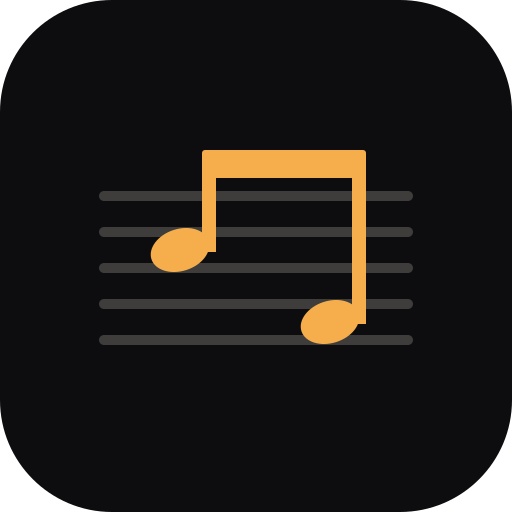
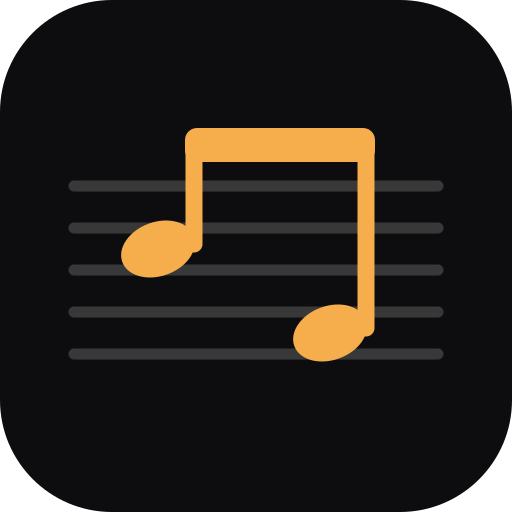
Protect saved sheets, hold tempo on a live BPM change, beam 16ths per beat
Storage could lose work: every mount wrote the in-memory library back, so a
single failed read seeded a demo and immediately overwrote the real sheets.
Loading now reports whether anything was restored and only the demo is
written on mount; save() refuses to persist an empty library and keeps the
previous copy in a backup key that load() falls back to.

Changing BPM mid-playback kept the old t0 while the period changed under it,
so the playhead jumped and the scheduler re-fired from its current index —
the tempo ran away until you stopped. rebuild() can now re-anchor in place,
preserving where the playhead is.

Sixteenths were beamed by the half bar along with eighths, so a run of them
carried a double beam across two beats and the beat was impossible to find.
Sixteenths group a beat at a time again; eighths keep the half-bar grouping.

Also: tap the BPM readout to type a tempo, CLICK is named METRONOME again,
playback speed is adjustable from the play screen, and the audio session is
only claimed while actually playing — holding it permanently is what put the
app in the Dynamic Island between takes — and is re-claimed on return from
another app.

Icon redrawn larger and smoother: bigger noteheads, rounded beam.

Changed region(s): [[0.125, 0.25, 0.875, 0.7188]]

diff --git a/src/App.tsx b/src/App.tsx
@@ -84,6 +84,8 @@ export class App extends Component<Record<string, never>, AppState> {
   private history = new History();
   private g: Gesture = {};
   private lastTap: { id: string; t: number } | null = null;
+  /** whether the library came from storage rather than the bundled demo */
+  private restored = false;
 
   /* scheduler */
   private TL: Step[] = [];
@@ -133,7 +135,12 @@ export class App extends Component<Record<string, never>, AppState> {
     if (compact !== this.state.compact) this.setState({ compact }, () => this.measure());
   };
   private onVis = (): void => {
-    if (document.visibilityState === 'visible') this.kit.resumeIfNeeded();
+    // Coming back from another app the context is often left suspended; without
+    // this the transport looks alive but nothing sounds.
+    if (document.visibilityState === 'visible') {
+      this.kit.resumeIfNeeded();
+      if (this.state.playing) this.kit.session(true);
+    }
   };
   /** iOS needs a real gesture before any sound will come out. */
   private onFirstGesture = (): void => {
@@ -144,7 +151,8 @@ export class App extends Component<Record<string, never>, AppState> {
 
   constructor(props: Record<string, never>) {
     super(props);
-    const { lib, curId } = load();
+    const { lib, curId, restored } = load();
+    this.restored = restored;
     this.state = {
       view: 'edit',
       lib,
@@ -180,7 +188,9 @@ export class App extends Component<Record<string, never>, AppState> {
   }
 
   componentDidMount(): void {
-    save(this.state.lib, this.state.curId);
+    // Only persist the bundled demo. Writing on every mount meant a transient
+    // read failure would immediately overwrite the user's sheets with a seed.
+    if (!this.restored) save(this.state.lib, this.state.curId);
     this.measure();
     if (window.ResizeObserver) {
       this.ro = new ResizeObserver(() => this.measure());
@@ -365,7 +375,7 @@ export class App extends Component<Record<string, never>, AppState> {
       },
       () => {
         save(lib, this.state.curId);
-        if (this.state.playing) this.rebuild();
+        if (this.state.playing) this.rebuild(true);
       },
     );
   }
@@ -404,7 +414,19 @@ export class App extends Component<Record<string, never>, AppState> {
 
   /* ---------- transport ---------- */
 
-  rebuild(): void {
+  /**
+   * @param keepPosition rebuild in place during playback, preserving where the
+   * playhead is. Without it a tempo change kept the old `t0` while the period
+   * changed underneath, so the playhead jumped and the scheduler re-fired
+   * everything from the current index — the tempo appeared to run away.
+   */
+  rebuild(keepPosition = false): void {
+    const now = this.kit.time;
+    let frac = 0;
+    if (keepPosition && this.period > 0) {
+      const t = now - this.t0;
+      if (t > 0) frac = (t % this.period) / this.period;
+    }
     const p = this.proj();
     const parts = this.state.scope === 'song' ? p.parts : [this.curPart()];
     const T = buildTimeline(p, parts, this.state.speed, this.state.loop);
@@ -416,6 +438,13 @@ export class App extends Component<Record<string, never>, AppState> {
     // you are playing along to the loop.
     this.gap = 4 * T.spq;
     this.period = this.total;
+    if (keepPosition && this.TL.length) {
+      const at = frac * this.period;
+      this.pass = 0;
+      this.t0 = now - at;
+      const i = this.TL.findIndex((st) => st.t >= at);
+      this.idx = i < 0 ? 0 : i;
+    }
   }
 
   togglePlay = (): void => {
@@ -432,6 +461,7 @@ export class App extends Component<Record<string, never>, AppState> {
     // reports currentTime 0 — every event would be scheduled in the past and
     // dropped. Resume before reading the clock.
     await this.kit.unlock();
+    this.kit.session(true);
     const ac = this.kit.ac();
     this.rebuild();
     if (!this.TL.length) return;
@@ -450,6 +480,7 @@ export class App extends Component<Record<string, never>, AppState> {
     clearInterval(this.iv);
     cancelAnimationFrame(this.raf);
     this.kit.panic();
+    this.kit.session(false);
     this.wakeOff();
     if (this.state.playing || this.state.cur || this.state.count)
       this.setState({ playing: false, cur: null, count: 0 });

diff --git a/src/ui/Transport.tsx b/src/ui/Transport.tsx
@@ -1,3 +1,4 @@
+import { useEffect, useRef, useState } from 'react';
 import type { App } from '../App';
 import { ACCENT, softAccent } from '../config';
 import { SPEEDS } from '../notation/constants';
@@ -5,6 +6,18 @@ import { SPEEDS } from '../notation/constants';
 export function Transport({ app }: { app: App }) {
   const st = app.state;
   const p = app.proj();
+  // tap the readout to type a tempo instead of stepping to it
+  const [typing, setTyping] = useState<string | null>(null);
+  const field = useRef<HTMLInputElement>(null);
+  useEffect(() => {
+    if (typing !== null) field.current?.select();
+  }, [typing]);
+  const commit = (raw: string | null): void => {
+    const v = Math.round(Number(raw));
+    if (raw !== null && raw !== '' && Number.isFinite(v))
+      app.edit((pp) => void (pp.bpm = Math.max(30, Math.min(300, v))));
+    setTyping(null);
+  };
   const soft = softAccent(ACCENT);
   const H = st.compact ? 42 : 50;
   const fs = st.compact ? 10 : 10.5;
@@ -12,7 +25,7 @@ export function Transport({ app }: { app: App }) {
   const loopActive = st.loopArm || loopOn;
   const speedLabel = (st.speed === 1 ? '1' : String(st.speed).replace('0.', '.')) + '×';
 
-  const chip = (bg: string, color: string, pad = 11): React.CSSProperties => ({
+  const chip = (bg: string, color: string, pad = 9): React.CSSProperties => ({
     height: H,
     padding: `0 ${pad}px`,
     borderRadius: 11,
@@ -96,8 +109,38 @@ export function Transport({ app }: { app: App }) {
         >
           −
         </button>
-        <div style={{ textAlign: 'center', minWidth: 38 }}>
-          <div style={{ font: '500 20px/1 IBM Plex Mono,monospace' }}>{p.bpm}</div>
+        <div style={{ textAlign: 'center', minWidth: 44 }}>
+          {typing === null ? (
+            <div
+              onClick={() => setTyping(String(p.bpm))}
+              style={{ font: '500 20px/1 IBM Plex Mono,monospace', cursor: 'pointer' }}
+            >
+              {p.bpm}
+            </div>
+          ) : (
+            <input
+              ref={field}
+              value={typing}
+              inputMode="numeric"
+              autoFocus
+              onChange={(e) => setTyping(e.target.value.replace(/[^0-9]/g, '').slice(0, 3))}
+              onBlur={() => commit(typing)}
+              onKeyDown={(e) => {
+                if (e.key === 'Enter') commit(typing);
+                if (e.key === 'Escape') setTyping(null);
+              }}
+              style={{
+                width: 44,
+                background: 'none',
+                border: 0,
+                outline: 'none',
+                textAlign: 'center',
+                font: '500 20px/1 IBM Plex Mono,monospace',
+                color: ACCENT,
+                padding: 0,
+              }}
+            />
+          )}
           <div
             style={{
               font: '400 8px/1.5 IBM Plex Mono,monospace',
@@ -142,7 +185,7 @@ export function Transport({ app }: { app: App }) {
         onClick={() => app.setState({ met: !st.met })}
         style={chip(st.met ? soft : '#17171c', st.met ? ACCENT : 'rgba(236,231,221,.5)')}
       >
-        CLICK
+        METRONOME
       </button>
 
       <button

diff --git a/src/model/storage.ts b/src/model/storage.ts
@@ -6,10 +6,14 @@ import { fitDur } from '../notation/layout';
    half-loading an old shape. */
 const LIB_KEY = 'drumtab.lib.v7';
 const CUR_KEY = 'drumtab.cur.v7';
+/** Written alongside every save, so a failed read has something to fall back to. */
+const BAK_KEY = 'drumtab.lib.bak';
 
 export interface Loaded {
   lib: Project[];
   curId: string;
+  /** false when nothing was stored — the library is the bundled demo */
+  restored: boolean;
 }
 
 /**
@@ -35,29 +39,42 @@ function migrate(p: Project): void {
 export function load(): Loaded {
   let lib: Project[] = [];
   let cur: string | null = null;
-  try {
-    lib = JSON.parse(localStorage.getItem(LIB_KEY) || '[]');
-  } catch {
-    /* corrupt or unavailable storage — fall through to a fresh library */
-  }
+  const read = (k: string): Project[] => {
+    try {
+      const v = JSON.parse(localStorage.getItem(k) || 'null');
+      return Array.isArray(v) ? v : [];
+    } catch {
+      return [];
+    }
+  };
+  lib = read(LIB_KEY);
+  // A torn or half-written primary must not cost the user their sheets.
+  if (!lib.length) lib = read(BAK_KEY);
   try {
     cur = JSON.parse(localStorage.getItem(CUR_KEY) || 'null');
   } catch {
     /* same */
   }
-  if (!Array.isArray(lib) || !lib.length) {
+  const restored = lib.length > 0;
+  if (!restored) {
     const p0 = newProj();
     p0.title = 'Straight 8s';
     lib = [p0];
   }
   lib.forEach(migrate);
   if (!cur || !lib.some((x) => x.id === cur)) cur = lib[0].id;
-  return { lib, curId: cur };
+  return { lib, curId: cur, restored };
 }
 
 export function save(lib: Project[], curId: string): void {
+  // Refuse to write an empty library over a good one: every path that empties
+  // `lib` is a bug, and persisting it would turn that bug into data loss.
+  if (!lib.length) return;
   try {
-    localStorage.setItem(LIB_KEY, JSON.stringify(lib));
+    const json = JSON.stringify(lib);
+    const prev = localStorage.getItem(LIB_KEY);
+    if (prev && prev !== json) localStorage.setItem(BAK_KEY, prev);
+    localStorage.setItem(LIB_KEY, json);
     localStorage.setItem(CUR_KEY, JSON.stringify(curId));
   } catch {
     /* quota or private mode — editing still works for the session */

diff --git a/src/screens/PlayMode.tsx b/src/screens/PlayMode.tsx
@@ -1,6 +1,7 @@
 import type { App } from '../App';
 import type { Bar } from '../model/types';
 import { ACCENT, SAFE_BOTTOM, softAccent } from '../config';
+import { SPEEDS } from '../notation/constants';
 import { buildBar } from '../notation/layout';
 import { Staff } from '../notation/Staff';
 
@@ -66,9 +67,29 @@ export function PlayMode({ app }: { app: App }) {
             whiteSpace: 'nowrap',
           }}
         >
-          {p.bpm} BPM · {speedLabel}
-          {loopOn ? ' · LOOP' : ''}
+          {p.bpm} BPM{loopOn ? ' · LOOP' : ''}
         </div>
+        <button
+          onClick={(e) => {
+            e.stopPropagation();
+            const i = (SPEEDS.indexOf(st.speed) + 1) % SPEEDS.length;
+            app.setState({ speed: SPEEDS[i] }, () => {
+              if (app.state.playing) app.restart();
+            });
+          }}
+          aria-label="Playback speed"
+          style={{
+            height: 38,
+            padding: '0 12px',
+            borderRadius: 9,
+            border: '1px solid rgba(236,231,221,.18)',
+            font: '600 13px IBM Plex Mono,monospace',
+            color: st.speed === 1 ? 'rgba(236,231,221,.6)' : ACCENT,
+            flex: 'none',
+          }}
+        >
+          {speedLabel}
+        </button>
         <button
           onClick={(e) => {
             e.stopPropagation();

diff --git a/src/notation/layout.ts b/src/notation/layout.ts
@@ -73,8 +73,12 @@ export const fitDur = (bar: Bar, s: number, want: NoteValue): NoteValue => {
  * Compound meters group by three eighths; triplet bars stay at one beat each
  * so every triplet keeps its own bracket.
  */
-export const beamGroup = (bar: Bar): number => {
+export const beamGroup = (bar: Bar, hasSixteenths = false): number => {
   if (isTriplet(bar)) return 1;
+  // Running eighths read better grouped by the half bar, but sixteenths are
+  // beamed a beat at a time — a double beam running across two beats hides
+  // where the beat falls, which is the whole point of the grouping.
+  if (hasSixteenths) return 1;
   if (bar.dv === 8) return bar.n % 3 === 0 ? 3 : 2;
   return 2;
 };
@@ -246,7 +250,12 @@ export function buildBar(bar: Bar, ctx: LayoutCtx): BarRender {
   const grp = (list: Note[], up: boolean): void => {
     const dir = up ? 1 : -1;
     const tip = up ? UPEND : DNEND;
-    const span = beamGroup(bar);
+    // decided per stem-direction group: a sixteenth anywhere in this voice
+    // keeps the whole line beamed by the beat, so the two lines stay aligned
+    const span = beamGroup(
+      bar,
+      list.some((n) => n.d >= 16),
+    );
     for (let b = 0; b < bar.n; b += span) {
       const lo = b * bar.sub;
       const hi = Math.min(b + span, bar.n) * bar.sub;

diff --git a/src/audio/kit.ts b/src/audio/kit.ts
@@ -44,12 +44,6 @@ export class Kit {
    * switch from muting us, which is the other common cause of a silent iPhone.
    */
   async unlock(): Promise<void> {
-    const nav = navigator as Navigator & { audioSession?: { type: string } };
-    try {
-      if (nav.audioSession) nav.audioSession.type = 'playback';
-    } catch {
-      /* not supported */
-    }
     const ac = this.ac();
     if (ac.state !== 'running') {
       try {
@@ -70,6 +64,21 @@ export class Kit {
 
   get running(): boolean {
     return this.ctx?.state === 'running';
+  }
+
+  /**
+   * `playback` is what stops the hardware ringer switch muting us, but it also
+   * declares the tab a media app — which is what puts it in the Dynamic Island
+   * and ducks other audio. Hold it only while actually playing and drop back to
+   * `auto` on stop, so the indicator goes away between takes.
+   */
+  session(active: boolean): void {
+    const nav = navigator as Navigator & { audioSession?: { type: string } };
+    try {
+      if (nav.audioSession) nav.audioSession.type = active ? 'playback' : 'auto';
+    } catch {
+      /* not supported */
+    }
   }
 
   /** Audio-clock read with no side effects — safe to poll from rAF. */
